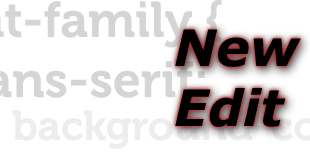
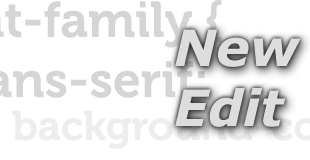
styling the new edits panel

Changed region(s): [[0.5516, 0.5312, 0.929, 0.8125], [0.5516, 0.1562, 0.9871, 0.4375]]

diff --git a/coreapp/public/stylesheets/userstyles.css b/coreapp/public/stylesheets/userstyles.css
@@ -123,10 +123,8 @@
   overflow: auto;
 }
 #outspokes #your_edits_left_wrapper {
-  float: left;
+  float: right;
   width: 70%;
-/*overflow-y: scroll;
-  overflow-x: hidden;*/
 }
 #outspokes #back_to_edits_list {
 /*  border: 1px solid black;*/
@@ -141,30 +139,30 @@
 #outspokes #your_edits {
 /*  border: 1px solid red;*/
   padding-left: 123px;
+  padding-top: 10px;
 }
   #outspokes #your_edits h1 {
-    background:#EEEEEE;
-    color:#666666;
+    font-size:14px;
+    font-style:italic;
     font-weight:bold;
-    padding:5px;
-    text-transform:uppercase;
-    font-size: 14px;
-    border: 1px solid #CCC;
-    margin-bottom: 10px;
-    margin-top: 15px;
+    color:#DDDDDD;
+    height:20px;
+    line-height:200%;
+    margin-top:2px;
+    margin-bottom: 8px;
   }
   
   #outspokes #your_edits_wrapper {
-    min-width: 332px;
+    min-width: 325px;
   }
   
   #outspokes #your_edits_wrapper #font_edit_wrap, #outspokes #your_edits_wrapper #color_edit_wrap{
     border: 1px solid #999999;
-    margin-top: -1px;
-    padding: 10px;
+    padding: 10px 0;
     background: #FFF;
-    -moz-border-radius-bottomleft:7px;
-    height: 100px;
+    height: 130px;
+    border-right: none;
+    margin-top: -10px;
   }
   
   #outspokes #your_edits .your_edits_nav {
@@ -175,8 +173,9 @@
       border-bottom : none;
       display : block;
       float : left;
-      padding : 2px 10px 7px 10px;
-      margin : -2px 2px 0 2px;
+      padding: 1px 5px 3px 5px;
+      margin-right: 3px;
+      
       background: #EEE;
     }
     #outspokes #your_edits .your_edits_nav li:hover {
@@ -190,6 +189,9 @@
       border-bottom:1px solid #FFFFFF;
     }
     
+    #outspokes #font_family_edit_wrap {
+      margin-top: 20px;
+    }
 #outspokes #font_family_edit_wrap, #outspokes #font_size_edit_wrap,#outspokes #color_bg_edit_wrap,#outspokes #color_text_edit_wrap {
   margin-left: 10px;
 }
@@ -200,9 +202,6 @@
   margin: 0 0 3px 5px;
 }
 
-#outspokes #your_edits_wrapper label, #outspokes #your_edits_wrapper input {
-  margin: 5px;
-}
 
 #outspokes #your_edits_wrapper input {
   width: 5em;
@@ -248,6 +247,7 @@
   text-align:right;
   height: 20px;
   padding:3px;
+  border-top: 1px solid #999;
 }
 
 
@@ -261,26 +261,30 @@
 }
 
 #outspokes #outspokes_target_list_wrap {
-  background:#FFFFFF url(/images/unopinionated_header.png) repeat-x scroll center top;
+  background:#999 url(/images/unopinionated_header.png) repeat-x scroll center top;
   color:#333333;
-  padding:5px;
-  width: 96%;
-  height: 128px;
+  height: 150px;
   color: #111;
   text-align: left;
   overflow-x: hidden;
   overflow-y: scroll;
-  border-right: 1px solid #BBB;
+  border-top: 1px solid #999;
 }
+
 #outspokes #outspokes_target_list li { 
-  border-bottom: 1px dotted #444;
+  border: 1px solid transparent;
+  border-left: none;
+  background: #BBB;
   padding: 2px;
-  margin: 5px 0;
-  -moz-border-radius: 3px;
   display: block;
+  margin-bottom: 2px;
 }
   #outspokes #outspokes_target_list li.outspokes_current_target {
-    border: 1px solid #C1272D;
+    border: 1px solid #999;
+    -moz-border-radius-bottomright: 3px;
+    -moz-border-radius-topright: 3px;
+    background: #FFF;
+    border-left: none;
   }
   #outspokes #outspokes_target_list li a {
     display: block;

diff --git a/coreapp/app/js/fb.Interface.user_style.js b/coreapp/app/js/fb.Interface.user_style.js
@@ -220,7 +220,7 @@
     // NEW_EDIT: YOUR EDITS  //////////////////////////////////////////////////////////////////
     // pane where you pick a style category and set individual properties
     this.your_edits = $('<div></div>').attr('id', dom.new_edit.your_edits);
-    this.your_edits.append($('<h1>Your Edits</h1>'));
+    //this.your_edits.append($('<h1>Your Edits</h1>'));
     this.your_edits_wrapper = $('<div></div>').attr('id', dom.new_edit.your_edits_wrapper);
     this.your_edits.append(this.your_edits_wrapper);
     
@@ -491,9 +491,9 @@
     var your_edits_left_wrapper = $('<div></div>').attr('id', 'your_edits_left_wrapper');
     your_edits_left_wrapper.append(this.edit_list_link);
     your_edits_left_wrapper.append(this.your_edits);
-    
+    this.new_edit_view.append(this.your_targets);   
     this.new_edit_view.append(your_edits_left_wrapper);
-    this.new_edit_view.append(this.your_targets);
+
     
     
     
